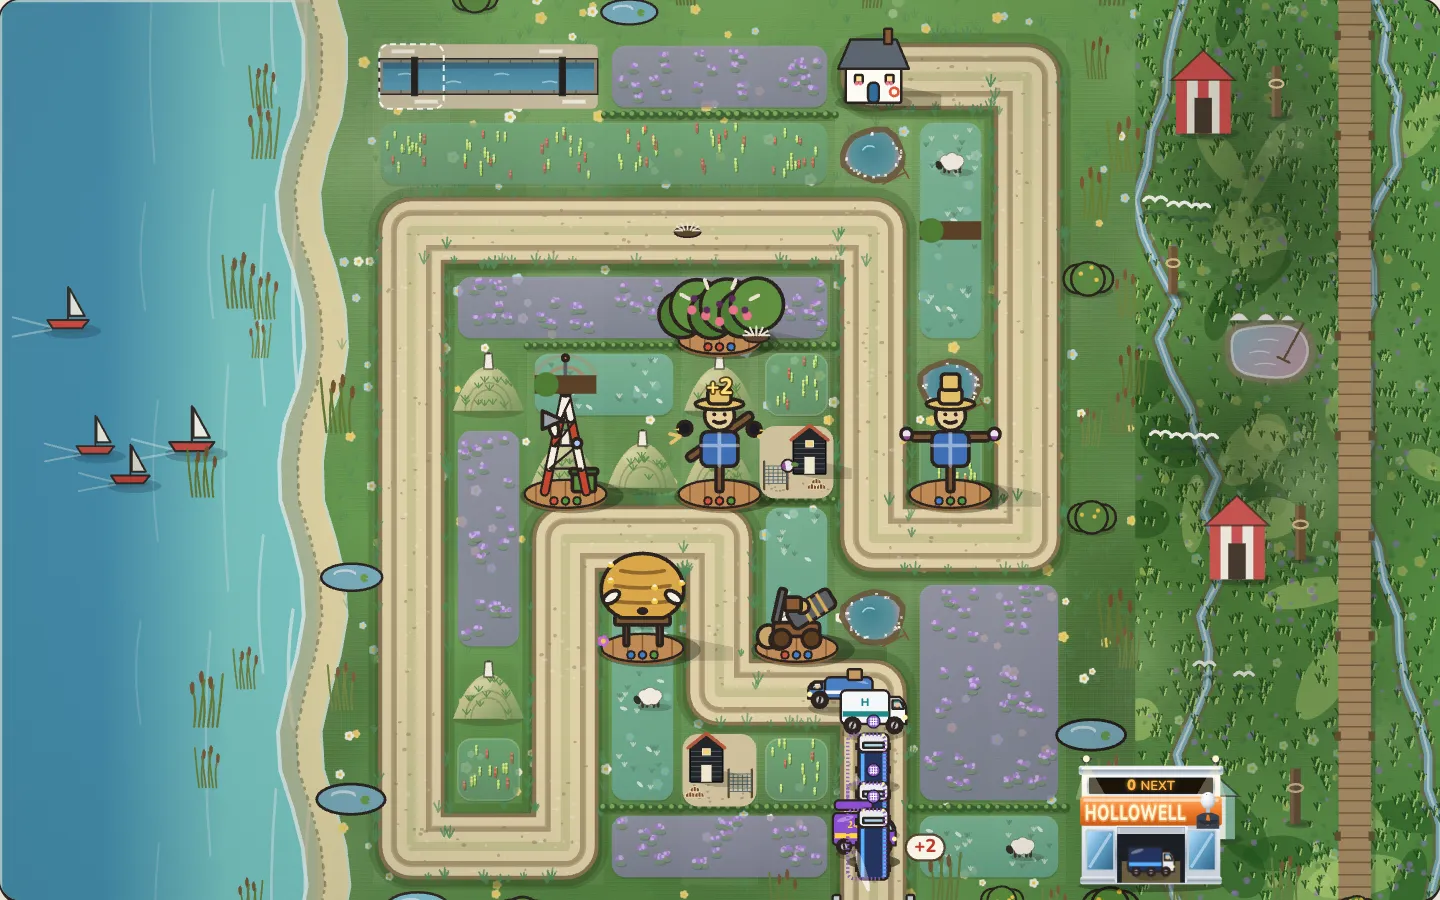
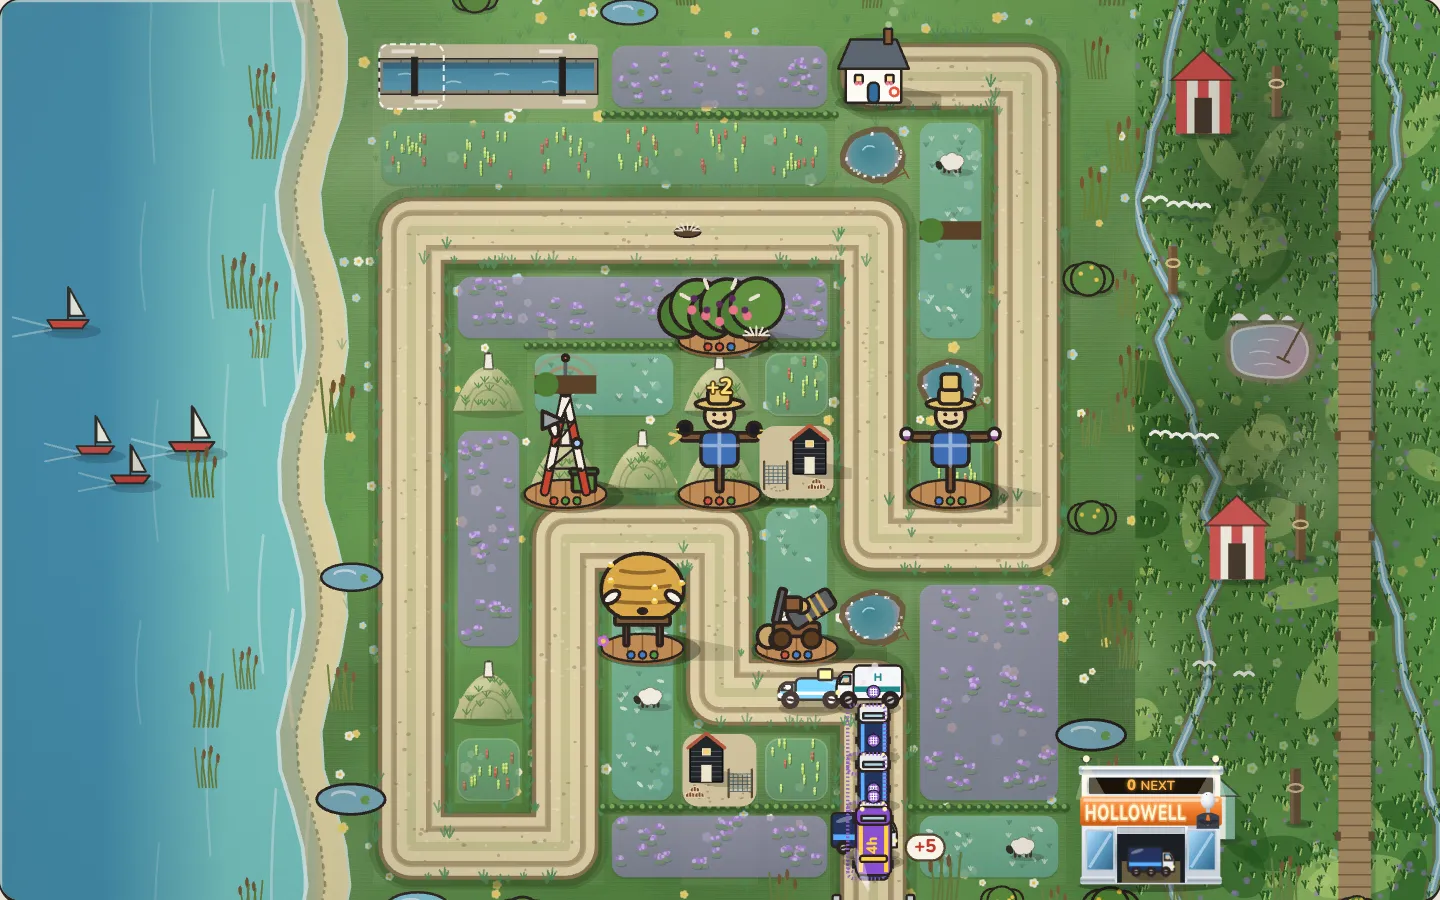
431 slice 4: Hedgerow's desktop 2D board framed to the field: the board column sized so the plots span 70%+ of the canvas (l21 71%, l34 74% at 1440x900), DEPOT_ROOM 2.5 cells beside a gate side, a slim edge elsewhere; the side panel widens to 400 px and the grid centres. field spec's item-19 window 
Claude-Session: https://claude.ai/code/session_01SimvMPyp6F5hMEBPSXiUYw

Changed region(s): [[0.5312, 0.7156, 0.6562, 0.9956], [0.4688, 0.4356, 0.5312, 0.5289], [0.5312, 0.4978, 0.5625, 0.5289]]

diff --git a/games/hedgerow/src/render.ts b/games/hedgerow/src/render.ts
@@ -137,6 +137,15 @@ interface PieFlight {
   landed: boolean;
 }
 
+/** Desktop framing (item 431): the field's share of the board's width, the side panel's range and the grid gap. */
+const FIELD_SHARE = 0.705;
+const PANEL_MIN = 320;
+const PANEL_MAX = 400;
+const STAGE_GAP = 14;
+/** Margin, in cells, beside a gate (room for its depot) and on a side with none. */
+const DEPOT_ROOM = 2.5;
+const EDGE_ROOM = 0.7;
+
 export interface View {
   cellSize: number;
   offX: number;
@@ -228,6 +237,8 @@ export class Renderer {
   /** Seconds of victory confetti still to fall. */
   private parade = 0;
   view: View = { cellSize: 40, offX: 0, offY: 0 };
+  /** The share of the canvas's spare width left of the field (frameStage: the depot's side gets the room). */
+  private frameLeft = 0.5;
   selected: { col: number; row: number } | null = null;
   cursor: { col: number; row: number } | null = null;
   /** Cath is selected: the next tap moves her. */
@@ -283,6 +294,7 @@ export class Renderer {
   }
 
   resize(game: Game): void {
+    this.frameStage(game);
     const rect = this.canvas.getBoundingClientRect();
     this.dpr = Math.min(window.devicePixelRatio || 1, 2);
     this.cssW = Math.max(1, rect.width);
@@ -295,10 +307,49 @@ export class Renderer {
     );
     this.view = {
       cellSize: cell,
-      offX: Math.floor((rect.width - cell * game.level.cols) / 2),
+      offX: Math.floor((rect.width - cell * game.level.cols) * this.frameLeft),
       offY: Math.floor((rect.height - cell * game.level.rows) / 2 + cell * 0.15),
     };
     this.bgKey = "";
+  }
+
+  /**
+   * Desktop (item 431): the board's column is sized to the field, so its plots span 70%+ of the canvas width
+   * instead of a portrait field standing in a wide strip of margin; the side panel takes the room it frees (to
+   * PANEL_MAX) and the play grid centres what is left. The field's size is unchanged (it is bound by the height).
+   */
+  private frameStage(game: Game): void {
+    const play = this.canvas.closest<HTMLElement>(".play");
+    const stage = this.canvas.parentElement;
+    if (!play || !stage) return;
+    let wide = false;
+    try {
+      wide = window.matchMedia("(min-width: 900px) and (min-height: 600px)").matches;
+    } catch {
+      /* no matchMedia */
+    }
+    this.frameLeft = 0.5;
+    if (!wide) {
+      play.style.removeProperty("--stage-w");
+      play.style.removeProperty("--panel-w");
+      return;
+    }
+    const { cols, rows } = game.level;
+    const room = play.clientWidth - STAGE_GAP;
+    const cell = stage.getBoundingClientRect().height / (rows + 0.6);
+    // The depot stands beside its gate (depot.ts): a side within two cells of a gate keeps DEPOT_ROOM cells of
+    // margin, the other a slim edge of country.
+    const gates = [game.level.path[0], game.level.path2?.[0]].filter((g): g is [number, number] => !!g);
+    const near = (left: boolean) => gates.some(([c]) => (left ? c <= 1 : c >= cols - 2));
+    let mL = near(true) ? DEPOT_ROOM : EDGE_ROOM;
+    let mR = near(false) ? DEPOT_ROOM : EDGE_ROOM;
+    if (mL === EDGE_ROOM && mR === EDGE_ROOM) mL = mR = (cols / FIELD_SHARE - cols) / 2;
+    const fit = Math.ceil(cell * (cols + mL + mR));
+    this.frameLeft = mL / (mL + mR);
+    const panel = Math.max(PANEL_MIN, Math.min(PANEL_MAX, room - fit));
+    const w = Math.max(0, Math.min(fit, room - panel));
+    play.style.setProperty("--stage-w", `${w}px`);
+    play.style.setProperty("--panel-w", `${panel}px`);
   }
 
   /** Clears effects when a level starts. */

diff --git a/e2e-site/hedgerow-field.spec.ts b/e2e-site/hedgerow-field.spec.ts
@@ -26,8 +26,9 @@ const voices = (page: Page) =>
 test('plan item 19: Cath\'s bubble and the "new on the lane" card never show together, and the side panel has no voice', async ({ page }) => {
   await page.setViewportSize({ width: 1440, height: 900 })
   await open(page, 12, {})
-  // A fresh tip list: Cath speaks as the field opens.
-  await expect(page.locator('#bubble')).toBeVisible({ timeout: 8000 })
+  // A fresh tip list: Cath speaks as the field opens (on her desk plate when the side panel has room, item 392,
+  // which the field-framed board of item 431 gives at 1440x900; else in her bubble).
+  await expect(page.locator('#bubble:visible, #cath-plate:visible').first()).toBeVisible({ timeout: 8000 })
   // Nothing has been seen yet, so the first round brings a "new on the lane" card while she is talking.
   await page.evaluate(() => {
     const hg = (window as unknown as { hedgerow: { game(): unknown; sendWave(g: unknown, early: boolean): void; refresh(): void } }).hedgerow
@@ -46,11 +47,18 @@ test('plan item 19: Cath\'s bubble and the "new on the lane" card never show tog
   await expect(page.locator('#panel .cath-tip')).toHaveCount(0)
 })
 
-test('plan item 19: at 1440x900 the field takes at least 70% of the width, and the side panel is a wave card', async ({ page }) => {
+// Plan item 431 (was item 19's 70% of the window): the board is framed to the field, so its plots span 70%+ of the
+// canvas width on l21 and l34 at 1440x900, and the side panel is a wave card.
+for (const level of [21, 34]) test(`plan item 431: at 1440x900 level ${level}'s field spans 70%+ of the board, the side panel a wave card`, async ({ page }) => {
   await page.setViewportSize({ width: 1440, height: 900 })
-  await open(page, 12, { build: true, hero: true, early: true, pie: true, spec: true, neighbours: true, rally: true })
-  const w = await page.locator('#canvas').evaluate((c) => c.getBoundingClientRect().width / innerWidth)
-  expect(w).toBeGreaterThanOrEqual(0.7)
+  await open(page, level, { build: true, hero: true, early: true, pie: true, spec: true, neighbours: true, rally: true })
+  const share = await page.evaluate(() => {
+    const hg = (window as unknown as { hedgerow: { game(): { level: { cols: number } }; cellCenter(c: number, r: number): { x: number } } }).hedgerow
+    const g = hg.game()
+    const a = hg.cellCenter(0, 0), b = hg.cellCenter(1, 0)
+    return ((b.x - a.x) * g.level.cols) / document.querySelector('#canvas')!.getBoundingClientRect().width
+  })
+  expect(share).toBeGreaterThanOrEqual(0.7)
   await expect(page.locator('#panel .round-ticket')).toBeVisible()
   await expect(page.locator('#panel .intel-towers')).toHaveCount(0)
 })

diff --git a/games/hedgerow/src/ui/components.css b/games/hedgerow/src/ui/components.css
@@ -2178,7 +2178,9 @@ body:has(#dlg-pause[open]) .paused-note {
 @media (min-width: 1200px) and (min-height: 521px) {
   .play {
     max-width: 1680px;
-    grid-template-columns: minmax(0, 1fr) clamp(320px, 23vw, 400px);
+    /* item 431: in 2D the board's column is sized to the field (render.ts frameStage), the grid centred */
+    grid-template-columns: minmax(0, var(--stage-w, 1fr)) var(--panel-w, clamp(320px, 23vw, 400px));
+    justify-content: center;
   }
 }
 

diff --git a/games/hedgerow/src/styles.css b/games/hedgerow/src/styles.css
@@ -2248,7 +2248,9 @@ dialog.sheet.story #story-skip {
   }
   .play {
     display: grid;
-    grid-template-columns: minmax(0, 1fr) 320px;
+    /* the 2D renderer sizes the board's column to the field (render.ts frameStage) and the grid centres */
+    grid-template-columns: minmax(0, var(--stage-w, 1fr)) var(--panel-w, 320px);
+    justify-content: center;
     grid-template-rows: auto minmax(0, 1fr) auto;
     grid-template-areas:
       "hud hud"
